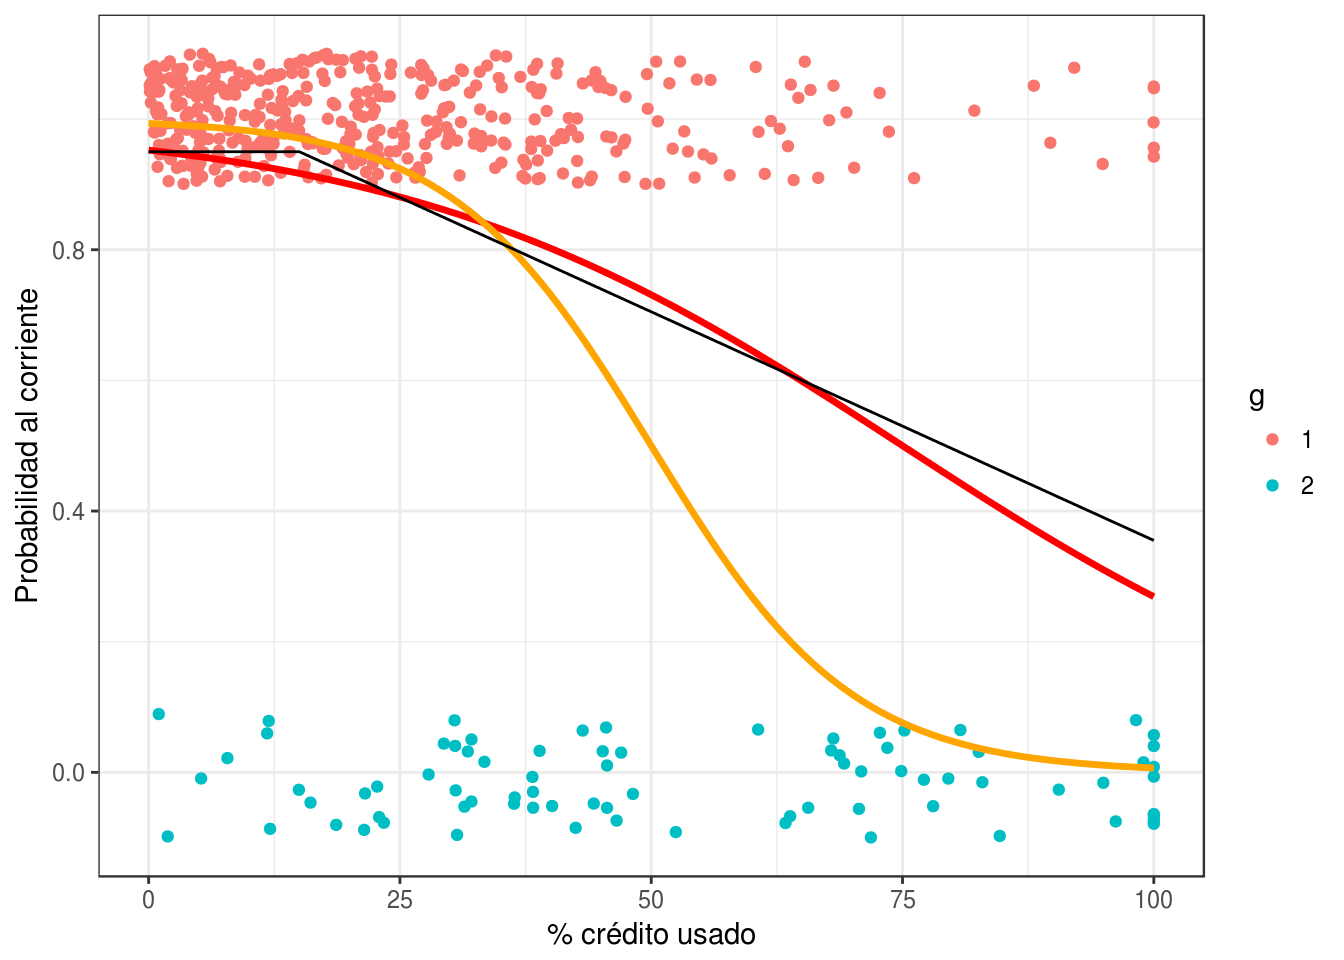
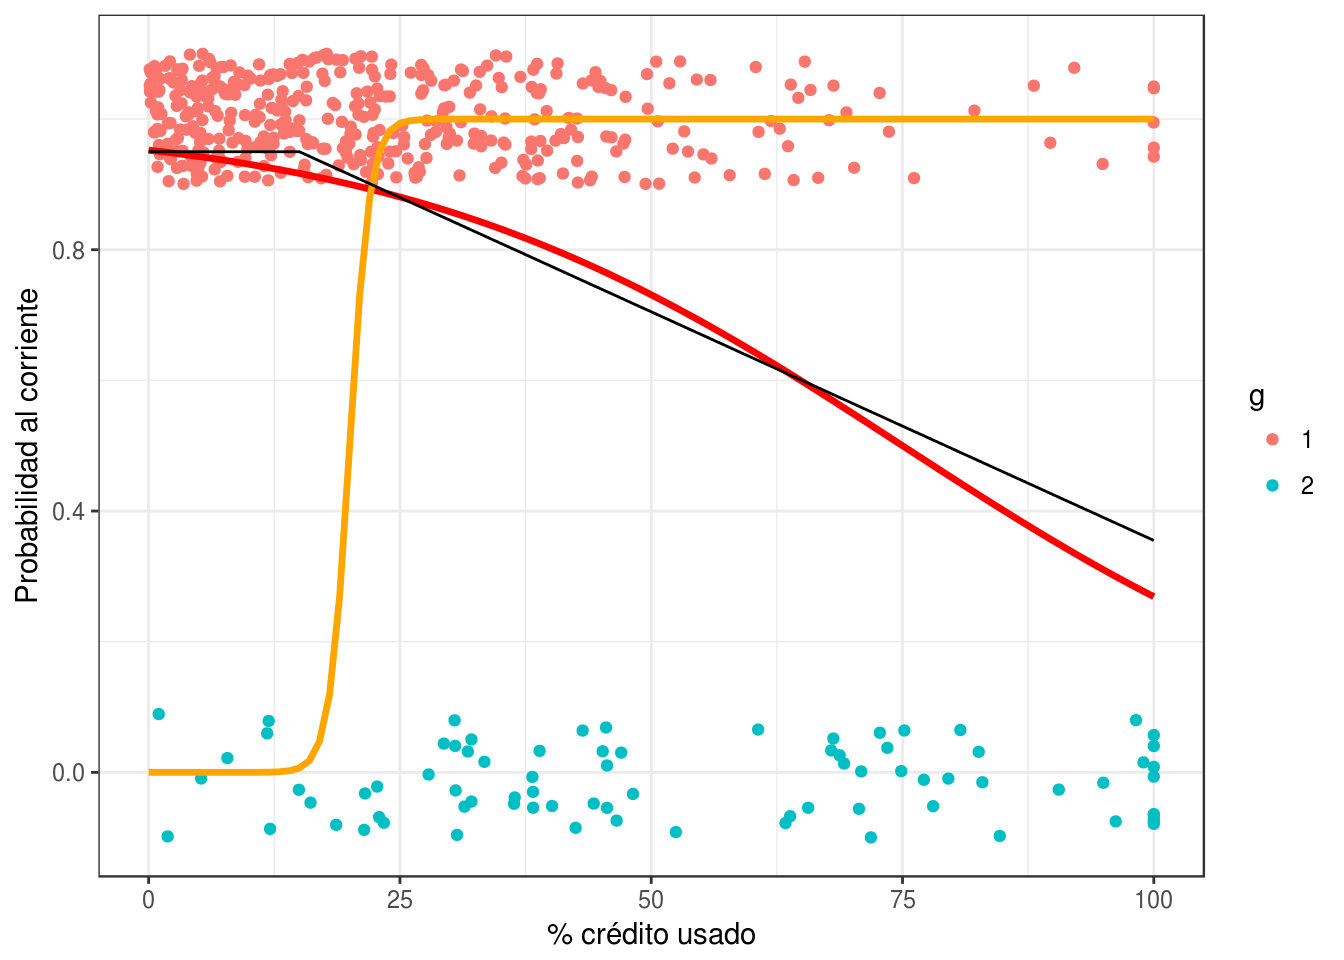
Actualizar notas

diff --git a/logistica.html b/logistica.html
@@ -608,7 +608,7 @@ p_logistico &lt;-<span class="st"> </span><span class="cf">function</span>(beta_
     <span class="kw">h</span>(z)
   }
 }
-p_mod_<span class="dv">1</span> &lt;-<span class="st"> </span><span class="kw">p_logistico</span>(<span class="dv">5</span>, <span class="op">-</span><span class="fl">0.1</span>)
+p_mod_<span class="dv">1</span> &lt;-<span class="st"> </span><span class="kw">p_logistico</span>(<span class="op">-</span><span class="dv">20</span>, <span class="dv">1</span>)
 p_mod_<span class="dv">2</span> &lt;-<span class="st"> </span><span class="kw">p_logistico</span>(<span class="dv">3</span>, <span class="op">-</span><span class="fl">0.04</span>)
 graf_data &lt;-<span class="st"> </span>graf_data <span class="op">%&gt;%</span><span class="st"> </span>
 <span class="st">  </span><span class="kw">mutate</span>(<span class="dt">p_mod_1 =</span> <span class="kw">p_mod_1</span>(x), <span class="dt">p_mod_2 =</span> <span class="kw">p_mod_2</span>(x))
@@ -658,9 +658,9 @@ El modelo de regresión logística está dado por <span class="math display">\[p
 <p><span class="math display">\[p_1(x)=p_1(x;\beta)= h(\beta_0+\beta_1x_1 + \beta_2x_2 +\cdots + \beta_p x_p),\]</span></p>
 <p>y definimos la devianza sobre el conjunto de entrenamiento</p>
 <p><span class="math display">\[D(\beta) = -2\sum_{i=1}^N \log(p_{y^{(i)}} (x^{(i)})).\]</span></p>
-<p>Los <strong>coeficientes estimados por regresión logística</strong> están dados por <span class="math display">\[\hat{\beta} = \arg\max_\beta D(\beta)\]</span></p>
+<p>Los <strong>coeficientes estimados por regresión logística</strong> están dados por <span class="math display">\[\hat{\beta} = \arg\min_\beta D(\beta)\]</span></p>
 <p>Para minimizar utilizaremos descenso en gradiente (aunque hay más opciones).</p>
-<p>La última expresión para <span class="math inline">\(D(\beta)\)</span> puede ser difícil de operar, pero podemos reescribir como: <span class="math display">\[D(\beta) = -2\sum_{i=1}^N y_i \log(p_{1} (x^{(i)})) + (1-y^{(i)}) \log(p_{1} (x^{(i)})).\]</span></p>
+<p>La última expresión para <span class="math inline">\(D(\beta)\)</span> puede ser difícil de operar, pero podemos reescribir como: <span class="math display">\[D(\beta) = -2\sum_{i=1}^N y_i \log(p_{1} (x^{(i)})) + (1-y^{(i)}) \log(p_{0} (x^{(i)})).\]</span></p>
 <p>Para hacer descenso en gradiente, necesitamos encontrar <span class="math inline">\(\frac{\partial D}{\beta_j}\)</span> para <span class="math inline">\(j=1,2,\ldots,p\)</span>.</p>
 <p>Igual que en regresión lineal, comenzamos por calcular la derivada de un término:</p>
 <p><span class="math display">\[D^{(i)} (\beta) = y^{(i)} \log(p_{1} (x^{(i)})) + (1-y^{(i)}) \log(1-p_{1} (x^{(i)}))\]</span></p>

diff --git a/03-clasificacion.md b/03-clasificacion.md
@@ -732,7 +732,7 @@ p_logistico <- function(beta_0, beta_1){
     h(z)
   }
 }
-p_mod_1 <- p_logistico(5, -0.1)
+p_mod_1 <- p_logistico(-20, 1)
 p_mod_2 <- p_logistico(3, -0.04)
 graf_data <- graf_data %>% 
   mutate(p_mod_1 = p_mod_1(x), p_mod_2 = p_mod_2(x))
@@ -808,12 +808,12 @@ y definimos la devianza sobre el conjunto de entrenamiento
 $$D(\beta) = -2\sum_{i=1}^N \log(p_{y^{(i)}} (x^{(i)})).$$ 
 
 Los **coeficientes estimados por regresión logística** están dados por
-$$\hat{\beta} = \arg\max_\beta D(\beta)$$
+$$\hat{\beta} = \arg\min_\beta D(\beta)$$
 
 Para minimizar utilizaremos descenso en gradiente (aunque hay más opciones).
 
 La última expresión para $D(\beta)$ puede ser difícil de operar, pero podemos reescribir como:
-$$D(\beta) = -2\sum_{i=1}^N y_i \log(p_{1} (x^{(i)})) + (1-y^{(i)}) \log(p_{1} (x^{(i)})).$$ 
+$$D(\beta) = -2\sum_{i=1}^N y_i \log(p_{1} (x^{(i)})) + (1-y^{(i)}) \log(p_{0} (x^{(i)})).$$ 
 
 
 Para hacer descenso en gradiente, necesitamos encontrar $\frac{\partial D}{\beta_j}$
